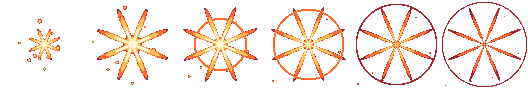
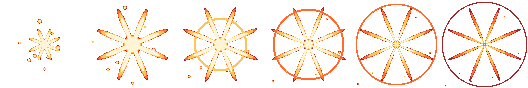
이펙트 색 A안: 흰색이 주, 가장자리만 청록 (INARI 흰+진홍 방식)
- 보통 구간 파스텔 청색 -> 흰 + 고대비 청록, 각성은 흰 + 초록빛 청록
- 흰색 구간 경계를 낮춰(0.70 -> 0.40) 궤적 대부분이 흰색, 구간 색은 가장자리·강조로

diff --git a/tools/make_slash_hq.py b/tools/make_slash_hq.py
@@ -47,9 +47,9 @@ def ramp(*cols):
     return [hexrgb(c) for c in cols]
 
 
-BLUE = ramp("#ffffff", "#cdf0ff", "#78d2eb", "#3c8cb4")
+BLUE = ramp("#ffffff", "#e6fffb", "#2ee6d6", "#0b6a74")      # v7 A안: 흰 주 + 고대비 청록 (예전 파스텔 #cdf0ff·#78d2eb·#3c8cb4)
 DIM = ramp("#d9b4c4", "#a8657f", "#7a3a52", "#4a2238")
-TEAL = ramp("#f4fff9", "#a2f7d2", "#3fd6a4", "#1f8a78")
+TEAL = ramp("#ffffff", "#e8fff4", "#33e39e", "#0d6b55")      # v7: 각성 (흰 주 + 초록빛 청록)
 FIRE = ramp("#fff4d6", "#ffb347", "#ff5a2e", "#a3262a")
 GOLD = ramp("#fffbe8", "#ffe08c", "#ff9a4a", "#b8502e")
 VIOLET = ramp("#ffffff", "#e6ccff", "#a46bff", "#5a2fb8")
@@ -153,6 +153,7 @@ def layer_heat(X, Y, c, cfg, layer, sa, t, kind):
     return heat
 
 
+CUTS = (0.40, 0.27, 0.14, 0.05)   # v7 A안: 흰색이 넓게 (INARI 흰+진홍처럼 흰 주, 색은 가장자리). 예전 (0.70, 0.46, 0.22, 0.05)
 DITHER = 0.0          # v7 (2026-11-23): 점묘 없이 단색 경계 (INARI처럼 깔끔하게). 예전 값 0.16
 OUTLINE = False       # v7: 어두운 외곽선 없이 빛나게. 예전 True
 
@@ -161,7 +162,7 @@ def quantize(heat, ramp_cols, bayer_tiled):
     """열 → 4톤 색 (DITHER > 0이면 베이어 디더링). 불투명 마스크와 RGB를 돌려준다."""
     th = heat + bayer_tiled * DITHER
     idx = np.full(heat.shape, -1)
-    cut = [0.70, 0.46, 0.22, 0.05]                                # 흰, 밝은, 중간, 짙은
+    cut = list(CUTS)                                              # 흰, 밝은, 중간, 짙은
     for i, cv in enumerate(cut):
         idx[(th >= cv) & (idx < 0)] = i
     idx[heat < 0] = -1

diff --git a/tools/make_fx.py b/tools/make_fx.py
@@ -31,7 +31,7 @@ OUT = os.path.join(ROOT, 'assets', 'effects')
 INK = (11, 16, 32)
 BAYER = np.array([[0, 8, 2, 10], [12, 4, 14, 6], [3, 11, 1, 9], [15, 7, 13, 5]]) / 16.0 - 0.5
 FLAT = True                                # v7 (2026-11-23): 점묘·어두운 외곽선 없이 깔끔한 단색 면 (INARI 참고)
-CUTS = (0.70, 0.46, 0.22, 0.05)          # 열 -> 색 4단계 (흰 코어, 밝음, 중간, 짙음)
+CUTS = (0.46, 0.30, 0.16, 0.05)          # 열 -> 색 4단계 (흰 코어, 밝음, 중간, 짙음). v7: 흰 코어를 넓게 (예전 0.70, 0.46, 0.22)
 
 
 def rgb(h):
@@ -44,12 +44,12 @@ def ramp(*cols):
 
 
 WARM = ramp('#ffffff', '#fff1a6', '#ffb347', '#d0602a')
-TEAL = ramp('#ffffff', '#b8fff0', '#3fd6a4', '#1f8a78')
+TEAL = ramp('#ffffff', '#e8fff4', '#33e39e', '#0d6b55')   # v7 A안
 FIRE = ramp('#fff4d6', '#ffc457', '#ff6a2e', '#a3262a')
 VIOLET = ramp('#ffffff', '#e6ccff', '#a46bff', '#5a2fb8')
 DIM = ramp('#d9b4c4', '#a8657f', '#7a3a52', '#4a2238')
 SMOKE = ramp('#dfe6f2', '#a9b6cc', '#6f7d99', '#454f68')
-HAZE = ramp('#ffffff', '#b9f6ff', '#4fc8e6', '#2a6f9e')
+HAZE = ramp('#ffffff', '#e6fffb', '#2ee6d6', '#0b6a74')   # v7 A안: 흰 주 + 고대비 청록
 QUAKE = ramp('#fff6d8', '#ffd27a', '#e8843a', '#8a4a2a')
 
 
